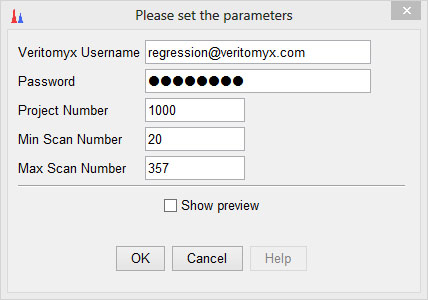
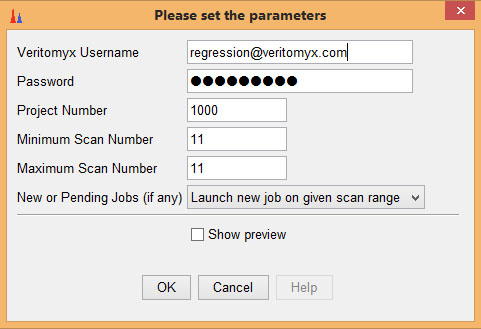
Update help doc
git-svn-id: https://tdi.codebasehq.com/protid/mzminepi.svn@110 8f191f92-7a15-11e2-b7ab-c922b3a7170b

Changed region(s): [[0.0, 0.0, 1.0, 1.0], [0.2734, 0.81, 0.5771, 0.93], [0.6075, 0.84, 0.6986, 0.9]]

diff --git a/src/main/java/net/sf/mzmine/modules/rawdatamethods/peakpicking/massdetection/Veritomyx/help/help.html b/src/main/java/net/sf/mzmine/modules/rawdatamethods/peakpicking/massdetection/Veritomyx/help/help.html
@@ -3,37 +3,49 @@
 		<title>Peak detection - Mass detection - Veritomyx Centroid</title>
 		<meta http-equiv="Content-Type" content="text/html; charset=UTF-8" />
 		<link rel="stylesheet" type="text/css" href="/net/sf/mzmine/desktop/impl/helpsystem/HelpStyles.css">
-    </head>
+	</head>
 
 <body>
 
-<h1>Veritomyx Centroid</h1>
+<h1>Veritomyx PeakInvestigator™ Peak Detection Software for Metabolomics</h1>
 
 <h2>Description</h2>
 
-<p>
-TBD
-</p>
+<blockquote>
+<table><tr><td valign=top>
+  <p align="justify">Mass spectral raw and processed results often fail to deconvolve and  consider crucial data. This contributes to inaccurate, incomplete and  inefficient protein and metabolite identifications. Veritomyx, Inc. mass  spectral analysis software applies advanced signal processing and  identification algorithms to reveal hidden data and accelerate to  correct biomolecular identifications. This improves R&amp;D  effectiveness while saving time and money.</p>
 
-<h4>Method parameters</h4>
-<dl>
-<dt>Veritomyx Username</dt>
-<dd>Login name (email address) for Veritomyx SaaS.</dd>
-<dt>Password</dt>
-<dd>Password for access to Veritomyx SaaS.</dd>
-<dt>Project Number</dt>
-<dd>Veritomyx project number under which this job is to be run.
-  Your login must have access to this project.
-  Setting this to zero will use your default project.</dd>
-<dt>Min Scan Number</dt>
-<dd>First scan in scan range to centroid.</dd>
-<dt>Max Scan Number</dt>
-<dd>Last scan in scan range to centroid.</dd>
-</dl>
-
-<p>
-<img src="Veritomyx_parameters.jpg">
-</p>
+    <p align="justify">Critical data remain hidden when
+      overlapping peaks are unresolved. Unresolved peaks cause:</p>
+     <ul>
+      <li>Inaccurate IDs</li>
+      <li>Misdirected efforts</li>
+      <li>Wasted time and resources</li>
+      <li>Missed biomarkers</li>
+    </ul>
+ </td><td valign="top"><img src="whatMissing.jpg"></td></tr>
+ <tr><td colspan="2"><p align="justify"><a href="http://www.veritomyx.com/PeakInvestigator.php">PeakInvestigator™</a> mass spectral analysis software detects and precisely deconvolves  hidden overlapped peaks, accelerating you to confident molecular  identifications in your metabolomics workflow. PeakInvestigator doubles  the effective resolution of virtually any existing mass analyzer. Unleashing important discoveries that would have remained hidden in your data offers critical leverage for scientific and business success.</p>
+</td></tr></table>    </blockquote>
+	 
+<h2>Method Parameters</h2>
+<blockquote>
+  <dl>
+    <dt><strong>Veritomyx Username</strong></dt>
+    <dd>Login name (email address) for Veritomyx SaaS.</dd>
+    <dt><strong>Password</strong></dt>
+    <dd>Password for access to Veritomyx SaaS.</dd>
+    <dt><strong>Project Number</strong></dt>
+    <dd>Veritomyx project number under which this job is to be run.
+      Your login must have access to this project.
+      Setting this to zero will use your default project.</dd>
+    <dt><strong>Minimum Scan Number</strong></dt>
+    <dd>First scan in scan range to centroid.</dd>
+    <dt><strong>Maximum Scan Number</strong></dt>
+    <dd>Last scan in scan range to centroid.</dd>
+    <dt><strong>New or Pending Jobs (if any) </strong></dt>
+    <dd>Choose if you want to start/launch a new job using the given scan range. If you have pending jobs that were launched earlier, they will be listed here. This gives the option of waiting for and picking up results.</dd>
+  </dl>
+  <img src="Veritomyx_parameters.jpg"></blockquote>
 
 </body>
 </html>
